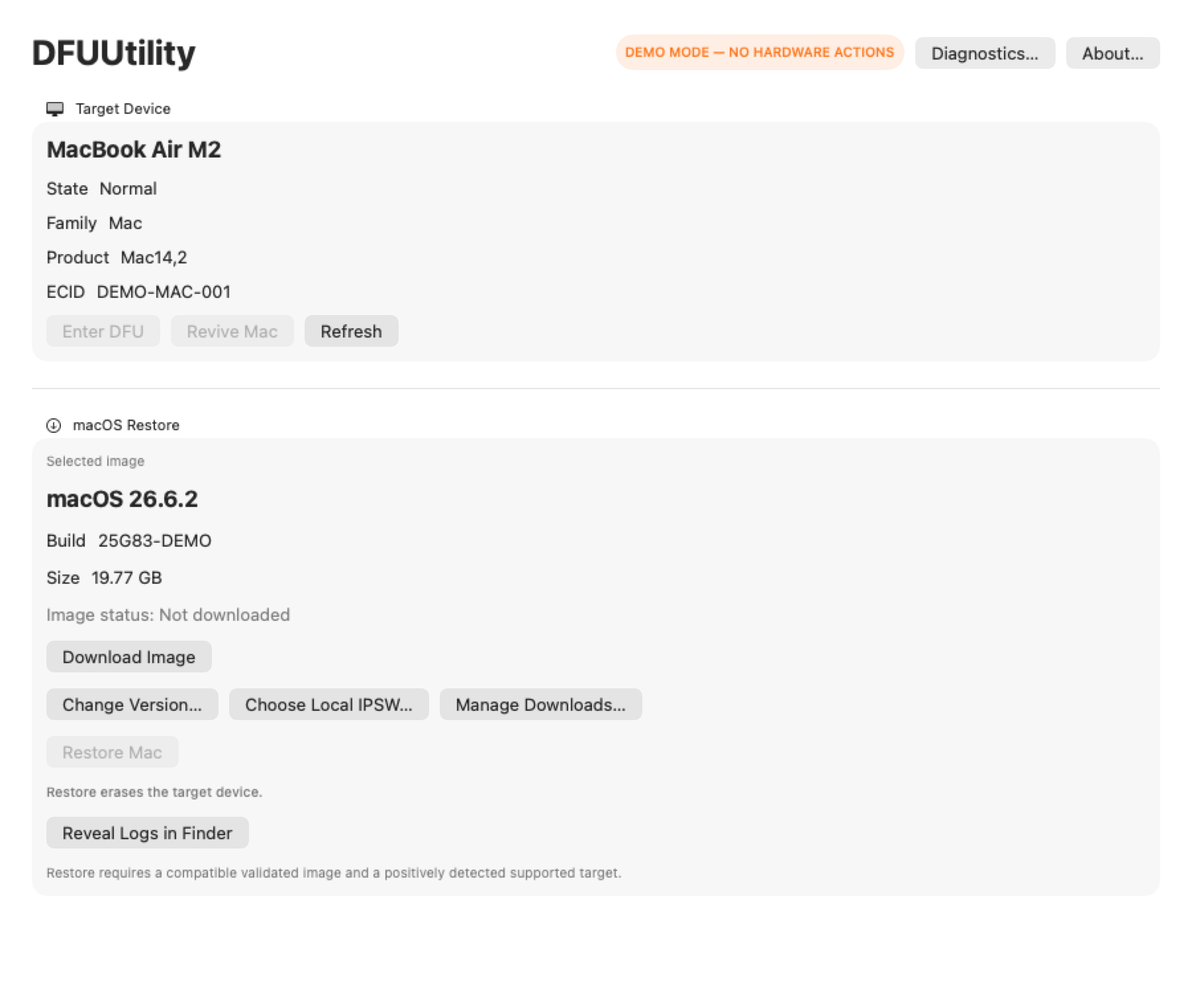
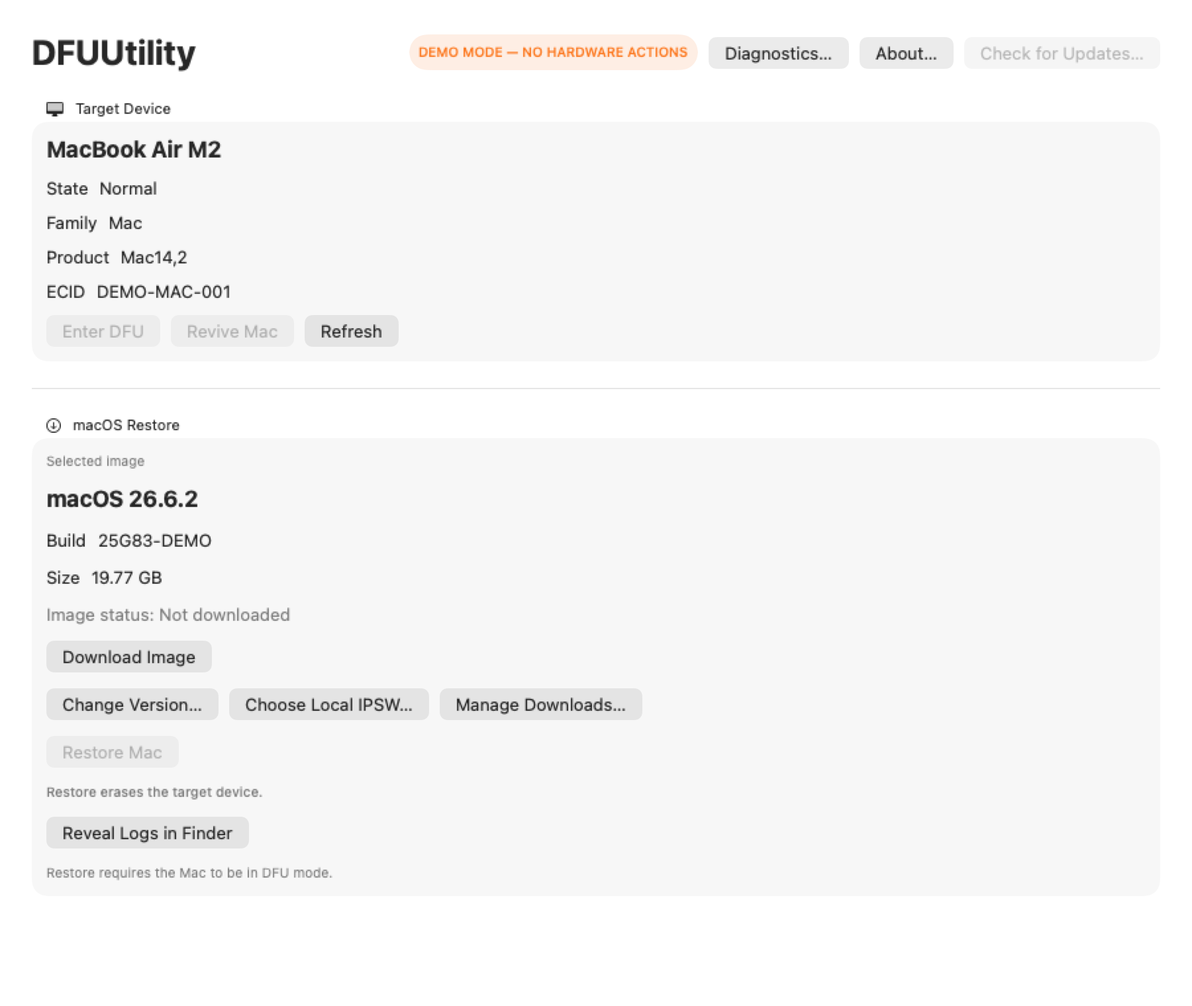
Polish pre-0.7.0 user experience

Changed region(s): [[0.3422, 0.0309, 0.9644, 0.0928], [0.1244, 0.8658, 0.5289, 0.8967]]

diff --git a/Sources/DFUUtilityApp/ContentView.swift b/Sources/DFUUtilityApp/ContentView.swift
@@ -22,19 +22,9 @@ struct ContentView: View {
 
     var body: some View {
         VStack(alignment: .leading, spacing: 20) {
-            HStack {
-                Text("DFUUtility").font(.largeTitle.bold())
-                Spacer()
-                if model.isDemoMode { Text("DEMO MODE — NO HARDWARE ACTIONS").font(.caption.bold()).foregroundStyle(.orange).padding(7).background(.orange.opacity(0.12), in: Capsule()) }
-                if model.isUpdateTestMode { Text("UPDATE TEST — SIMULATION ONLY").font(.caption.bold()).foregroundStyle(.orange).padding(7).background(.orange.opacity(0.12), in: Capsule()) }
-                if case .available = model.updateCoordinator.state {
-                    Button("Update Available") { model.isUpdatePresentationRequested = true }
-                        .buttonStyle(.borderedProminent).controlSize(.small)
-                }
-                Button("Diagnostics…") { showDiagnostics = true }
-                Button("About…") { showAbout = true }
-                Button(checkButtonTitle) { model.requestManualUpdateCheck() }
-                    .disabled(model.isDemoMode || model.isScreenshotPresentation || model.updateCoordinator.state == .checking)
+            ViewThatFits(in: .horizontal) {
+                HStack { headerTitle; Spacer(); headerActions }
+                VStack(alignment: .leading, spacing: 10) { headerTitle; headerActions }
             }
             targetCard
             Divider()
@@ -60,7 +50,7 @@ struct ContentView: View {
         } message: {
             Text("\(model.target?.friendlyName ?? "Target device")\nProduct: \(model.target?.restoreProductType ?? "Unknown")\nECID: \(model.target?.ecid ?? "Unknown")\n\(model.selectedRelease?.platform.displayName ?? "OS") \(model.selectedRelease?.version ?? "selected image") (\(model.selectedRelease?.build ?? "unknown build"))\n\nThis will erase the target device and reinstall its operating system.")
         }
-        .alert("DFUUtility", isPresented: Binding(get: { model.presentedError != nil }, set: { if !$0 { model.presentedError = nil } })) { Button("OK") { model.presentedError = nil } } message: { Text(model.presentedError ?? "") }
+        .alert(model.presentedErrorTitle, isPresented: Binding(get: { model.presentedError != nil }, set: { if !$0 { model.presentedError = nil } })) { Button("OK") { model.presentedError = nil } } message: { Text(model.presentedError ?? "") }
         .alert(updateResultTitle, isPresented: Binding(get: { model.updateCoordinator.pendingResult != nil }, set: { if !$0 { model.updateCoordinator.clearResult() } })) {
             if model.updateCoordinator.pendingResult?.outcome == .failure { Button("View Update Log") { NSWorkspace.shared.open(model.updateCoordinator.logURL) } }
             Button("OK") { model.updateCoordinator.clearResult() }
@@ -72,6 +62,26 @@ struct ContentView: View {
                 else { Text("DFUUtility was updated successfully. Version remains \(result.newVersion ?? result.oldVersion ?? "unchanged").") }
             }
         }
+    }
+
+    private var headerTitle: some View { Text("DFUUtility").font(.largeTitle.bold()) }
+    private var headerActions: some View {
+        ViewThatFits(in: .horizontal) {
+            HStack { headerActionContent }
+            VStack(alignment: .leading, spacing: 6) { headerActionContent }
+        }
+    }
+    @ViewBuilder private var headerActionContent: some View {
+        if model.isDemoMode { Text("DEMO MODE — NO HARDWARE ACTIONS").font(.caption.bold()).foregroundStyle(.orange).padding(7).background(.orange.opacity(0.12), in: Capsule()) }
+        if model.isUpdateTestMode { Text("UPDATE TEST — SIMULATION ONLY").font(.caption.bold()).foregroundStyle(.orange).padding(7).background(.orange.opacity(0.12), in: Capsule()) }
+        if case .available = model.updateCoordinator.state {
+            Button("Update Available") { model.isUpdatePresentationRequested = true }
+                .buttonStyle(.borderedProminent).controlSize(.small)
+        }
+        Button("Diagnostics…") { showDiagnostics = true }
+        Button("About…") { showAbout = true }
+        Button(checkButtonTitle) { model.requestManualUpdateCheck() }
+            .disabled(model.isDemoMode || model.isScreenshotPresentation || model.updateCoordinator.state == .checking)
     }
 
     private var checkButtonTitle: String { model.updateCoordinator.state == .checking ? "Checking…" : "Check for Updates…" }
@@ -175,15 +185,15 @@ struct ContentView: View {
                 if let error = model.catalogueErrorMessage { Label(error, systemImage: "wifi.exclamationmark").font(.caption).foregroundStyle(.orange) }
                 imageStatus
                 downloadControl
-                HStack {
-                    Button("Change Version…") { model.beginChoosingVersion(); showVersions = true }
-                    Button("Choose Local IPSW…") { showImporter = true }
-                    Button("Manage Downloads…") { showCacheManager = true }
+                ViewThatFits(in: .horizontal) {
+                    HStack { firmwareLibraryActions }
+                    VStack(alignment: .leading, spacing: 6) { firmwareLibraryActions }
                 }
                 if model.deviceSessions.sessions.count > 1 { BatchRestoreControls(model: model, sessions: model.deviceSessions, coordinator: model.batchCoordinator) }
                 if !model.isFirmwareLibraryMode {
                     OperationProgressView(presentation: OperationProgressPresentation(state: model.restoreState, macOSVersion: model.selectedRelease?.version, platform: model.targetRestorePlatform), target: model.target)
-                    Button("Restore \(model.target?.family.displayName ?? "Device")", role: .destructive) { confirmRestore = true }.disabled(!model.canRestore)
+                    Button("Restore \(model.target?.family.displayName ?? "Device")", role: .destructive) { confirmRestore = true }
+                        .disabled(!model.canRestore).accessibilityHint("Erases the selected target after a separate confirmation.")
                     Text("Restore erases the target device.").font(.caption.bold()).foregroundStyle(.secondary)
                     if model.canRevive { Text("Revive attempts repair without erasing recoverable user data, but is not a backup or guarantee.").font(.caption).foregroundStyle(.secondary) }
                 }
@@ -227,7 +237,9 @@ struct ContentView: View {
         case .preparing(let value), .downloading(let value):
                 VStack(alignment: .leading, spacing: 6) {
                     Text("Downloading \(value.release.platform.displayName) \(value.release.version)").font(.headline)
-                    if let fraction = value.fraction { ProgressView(value: fraction) } else { ProgressView() }
+                    if let fraction = value.fraction {
+                        ProgressView(value: fraction).accessibilityLabel("Firmware download progress").accessibilityValue("\(Int((fraction * 100).rounded())) percent")
+                    } else { ProgressView().accessibilityLabel("Preparing firmware download") }
                     HStack {
                         Text("\(formatBytes(value.completed)) / \(formatBytes(value.total))").font(.caption.monospacedDigit())
                         Spacer()
@@ -236,7 +248,7 @@ struct ContentView: View {
                     }
                     Button("Cancel", role: .cancel) { model.cancelDownload() }
                 }
-        case .validating: ProgressView("Validating image…")
+        case .validating: ProgressView("Validating image…").accessibilityLabel("Validating firmware")
         case .failed(let message): Label(message, systemImage: "exclamationmark.triangle.fill").foregroundStyle(.red)
         default:
             if model.selectedRelease != nil, model.imageURL == nil { Button(model.imageState.isPartial ? "Resume Download" : "Download Image") { model.beginDownload() } }
@@ -244,6 +256,12 @@ struct ContentView: View {
     }
 
     private func formatBytes(_ value: Int64?) -> String { value.map { ByteCountFormatter.string(fromByteCount: $0, countStyle: .file) } ?? "Unknown" }
+
+    @ViewBuilder private var firmwareLibraryActions: some View {
+        Button("Change Version…") { model.beginChoosingVersion(); showVersions = true }
+        Button("Choose Local IPSW…") { showImporter = true }
+        Button("Manage Downloads…") { showCacheManager = true }
+    }
 }
 
 private extension ImageState { var isPartial: Bool { if case .partial = self { true } else { false } } }
@@ -314,6 +332,8 @@ private struct DeviceSessionListView: View {
                 HStack(spacing: 10) {
                     Toggle("", isOn: Binding(get: { session.isSelected }, set: { model.setSessionSelected(session.id, selected: $0) }))
                         .labelsHidden().toggleStyle(.checkbox).disabled(!session.hasSafeBatchIdentity)
+                        .accessibilityLabel("Select \(session.device.friendlyName ?? session.device.family.displayName) for batch operations")
+                        .accessibilityHint(session.hasSafeBatchIdentity ? "Adds or removes this device from the explicit batch selection." : "Unavailable because this device does not have a stable ECID.")
                     Image(systemName: icon(for: session.device.family)).frame(width: 20)
                     Button { model.selectSessionForDetail(session.id) } label: {
                         VStack(alignment: .leading, spacing: 2) {
@@ -323,14 +343,14 @@ private struct DeviceSessionListView: View {
                         }.frame(maxWidth: .infinity, alignment: .leading)
                     }.buttonStyle(.plain)
                     if case .running(_, let fraction) = session.operationState {
-                        if let fraction { ProgressView(value: fraction).frame(width: 90) } else { ProgressView().controlSize(.small) }
+                        if let fraction { ProgressView(value: fraction).frame(width: 90).accessibilityLabel("\(session.device.friendlyName ?? "Device") operation progress").accessibilityValue("\(Int(fraction * 100)) percent") } else { ProgressView().controlSize(.small).accessibilityLabel("\(session.device.friendlyName ?? "Device") operation in progress") }
                     }
                     if let log = session.operationLogURL { Button("Log") { NSWorkspace.shared.open(log) }.controlSize(.small) }
                 }
                 .padding(8).background(model.selectedTargetECID?.caseInsensitiveCompare(session.ecid ?? "") == .orderedSame ? Color.accentColor.opacity(0.1) : Color.secondary.opacity(0.05), in: RoundedRectangle(cornerRadius: 8))
             }
             HStack {
-                Button("Select All Ready") { model.selectAllRestoreEligibleSessions() }
+                Button("Select All Restore-Ready") { model.selectAllRestoreEligibleSessions() }
                 Button("Clear Selection") { model.clearSessionSelection() }
                 Spacer()
                 Text("\(sessions.selectedSessions.count) selected").font(.caption).foregroundStyle(.secondary)
@@ -360,25 +380,21 @@ private struct BatchRestoreControls: View {
         VStack(alignment: .leading, spacing: 8) {
             Divider()
             Text("Sequential Batch").font(.headline)
-            HStack(spacing: 8) {
-                Button("Use Latest Compatible Firmware") { Task { await model.useLatestCompatibleFirmwareForSelectedSessions() } }
-                Button("Use Current Firmware for Selected") { model.applyCurrentFirmwareToSelectedSessions() }
+            Text("The selected device set and firmware assignments are frozen when a batch starts. Operations run sequentially and each device is explicitly targeted.").font(.caption).foregroundStyle(.secondary)
+            ViewThatFits(in: .horizontal) {
+                HStack(spacing: 8) { firmwareButtons }
+                VStack(alignment: .leading, spacing: 8) { firmwareButtons }
             }
-            .fixedSize(horizontal: true, vertical: false)
-            HStack(spacing: 8) {
-                Button("Restore \(sessions.selectedSessions.count) Devices", role: .destructive) { confirming = true }
-                    .disabled(!coordinator.canStartRestore || model.isDemoMode)
-                Button("Revive Selected") { model.startBatch(.revive) }.disabled(!coordinator.canStart(.revive) || model.isDemoMode)
-                Button("Restart Selected") { model.startBatch(.restart) }.disabled(!coordinator.canStart(.restart) || model.isDemoMode)
-                if coordinator.isRunning { Button("Stop After Current Device") { model.stopBatchAfterCurrentTarget() } }
+            ViewThatFits(in: .horizontal) {
+                HStack(spacing: 8) { operationButtons }
+                VStack(alignment: .leading, spacing: 8) { operationButtons }
             }
-            .fixedSize(horizontal: true, vertical: false)
             if !coordinator.selectedEligibilityFailures(for: .restore).isEmpty {
                 Text("Every selected device must be ready. \(coordinator.selectedEligibilityFailures(for: .restore).count) selected device(s) are blocked for Restore.").font(.caption).foregroundStyle(.orange)
             }
             if coordinator.isRunning, let index = coordinator.currentIndex {
                 Text("Device \(index + 1) of \(coordinator.frozenTargetIDs.count)")
-                ProgressView(value: coordinator.overallFraction)
+                ProgressView(value: coordinator.overallFraction).accessibilityLabel("Sequential batch progress").accessibilityValue("Device \(index + 1) of \(coordinator.frozenTargetIDs.count)")
                 Text("Overall indicator combines completed-device count with current stage-local progress; it is not byte-linear.").font(.caption).foregroundStyle(.secondary)
             }
             if let summary = coordinator.summary {
@@ -400,8 +416,20 @@ private struct BatchRestoreControls: View {
                         }
                     }
                 }
-                HStack { Spacer(); Button("Cancel") { confirming = false }; Button("Restore Sequentially", role: .destructive) { confirming = false; model.startBatchRestore() }.keyboardShortcut(.defaultAction) }
+                HStack { Spacer(); Button("Cancel") { confirming = false }.keyboardShortcut(.cancelAction); Button("Restore Sequentially", role: .destructive) { confirming = false; model.startBatchRestore() }.keyboardShortcut(.defaultAction).accessibilityHint("Erases the selected devices one at a time in the displayed batch.") }
             }.padding().frame(minWidth: 560, minHeight: 380)
         }
+    }
+
+    @ViewBuilder private var firmwareButtons: some View {
+        Button("Use Latest Compatible Firmware") { Task { await model.useLatestCompatibleFirmwareForSelectedSessions() } }
+        Button("Use Current Firmware for Selected") { model.applyCurrentFirmwareToSelectedSessions() }
+    }
+    @ViewBuilder private var operationButtons: some View {
+        Button("Restore \(sessions.selectedSessions.count) Devices", role: .destructive) { confirming = true }
+            .disabled(!coordinator.canStartRestore || model.isDemoMode).accessibilityHint("Opens confirmation for a sequential destructive Restore batch.")
+        Button("Revive Selected") { model.startBatch(.revive) }.disabled(!coordinator.canStart(.revive) || model.isDemoMode)
+        Button("Restart Selected") { model.startBatch(.restart) }.disabled(!coordinator.canStart(.restart) || model.isDemoMode)
+        if coordinator.isRunning { Button("Stop After Current Device") { model.stopBatchAfterCurrentTarget() }.accessibilityHint("Allows the active device to finish and cancels queued devices.") }
     }
 }

diff --git a/Sources/DFUAppSupport/AppModel.swift b/Sources/DFUAppSupport/AppModel.swift
@@ -359,10 +359,31 @@ public final class AppModel: ObservableObject {
         return RestoreTargetStatePolicy.allowsRestore(target) && imageURL != nil && selectedImageMatchesTarget && !operationInProgress
     }
     public var restoreUnavailableMessage: String {
-        if let target, (target.family == .iPhone || target.family == .iPad), !RestoreTargetStatePolicy.allowsRestore(target) {
+        guard let target else { return "Select a connected target device before restoring." }
+        if (target.family == .iPhone || target.family == .iPad), !RestoreTargetStatePolicy.allowsRestore(target) {
             return "Restore requires the \(target.family.displayName) to be in Recovery or DFU mode."
         }
-        return "Restore requires a compatible validated image and a positively detected supported target."
+        if !RestoreTargetStatePolicy.allowsRestore(target) { return "Restore requires the Mac to be in DFU mode." }
+        if operationInProgress { return "Wait for the current device operation to finish before restoring." }
+        switch imageState {
+        case .validating: return "Wait for firmware validation to finish before restoring."
+        case .partial: return "Resume and complete the firmware download before restoring."
+        case .invalid(let reason): return "The selected firmware is invalid. \(reason)"
+        case .none where selectedRelease == nil && manualImageURL == nil: return "Select firmware before restoring."
+        case .none: return "Download and validate the selected firmware before restoring."
+        case .ready where !selectedImageMatchesTarget: return "The selected firmware is not compatible with \(target.restoreProductType ?? "this target")."
+        case .ready: return "Restore is unavailable for the selected target and firmware."
+        }
+    }
+    public var presentedErrorTitle: String {
+        guard let message = presentedError else { return "DFUUtility" }
+        if message.hasPrefix("Restore failed") { return "Restore Failed" }
+        if message.hasPrefix("Revive failed") { return "Revive Failed" }
+        if message.hasPrefix("Image download failed") { return "Download Failed" }
+        if message.hasPrefix("Unable to load Apple restore images") || message.hasPrefix("The selected IPSW") { return "Firmware Unavailable" }
+        if message.localizedCaseInsensitiveContains("update") { return "Update Failed" }
+        if message.localizedCaseInsensitiveContains("entering DFU") || message.hasPrefix("DFU helper") || message.localizedCaseInsensitiveContains("DFU is unavailable") { return "DFU Entry Failed" }
+        return "DFUUtility"
     }
     public var canRevive: Bool {
         guard !isDemoMode, !isUpdateTestMode, let target, !operationInProgress else { return false }

diff --git a/Sources/DFUUtilityApp/DiagnosticsView.swift b/Sources/DFUUtilityApp/DiagnosticsView.swift
@@ -3,6 +3,9 @@ import DFUCore
 import SwiftUI
 
 struct DiagnosticsView: View {
+    @Environment(\.dismiss) private var dismiss
+    @State private var confirmation: String?
+    @State private var saveError: String?
     let report: DoctorReport?
     let shareableText: String
     var privilegeMode: PrivilegeMode = PrivilegeModeSelector.select()
@@ -15,17 +18,34 @@ struct DiagnosticsView: View {
             Text("Diagnostics").font(.title.bold())
             Text("Detailed local diagnostics are shown below. Copy and Save create a sanitized report suitable for sharing.").font(.caption).foregroundStyle(.secondary)
             ScrollView { Text(text).font(.system(.caption, design: .monospaced)).textSelection(.enabled).frame(maxWidth: .infinity, alignment: .leading) }
-            HStack {
-                Button("Copy Sanitized Diagnostics") { NSPasteboard.general.clearContents(); NSPasteboard.general.setString(shareableText, forType: .string) }
-                Button("Save Sanitized Diagnostics…") { save() }
-                Spacer()
+            if let confirmation { Text(confirmation).font(.caption).foregroundStyle(.secondary).accessibilityLabel(confirmation) }
+            ViewThatFits(in: .horizontal) {
+                HStack { actionButtons; Spacer(); doneButton }
+                VStack(alignment: .leading, spacing: 8) { actionButtons; doneButton }
             }
         }
+        .alert("Unable to Save Diagnostics", isPresented: Binding(get: { saveError != nil }, set: { if !$0 { saveError = nil } })) {
+            Button("OK") { saveError = nil }
+        } message: { Text(saveError ?? "The sanitized diagnostics could not be saved.") }
     }
+
+    @ViewBuilder private var actionButtons: some View {
+        Button("Copy Sanitized Diagnostics") {
+            NSPasteboard.general.clearContents(); NSPasteboard.general.setString(shareableText, forType: .string)
+            confirmation = "Sanitized diagnostics copied."
+        }
+        Button("Save Sanitized Diagnostics…") { save() }
+    }
+    private var doneButton: some View { Button("Done") { dismiss() }.keyboardShortcut(.defaultAction) }
 
     private func save() {
         let panel = NSSavePanel(); panel.nameFieldStringValue = "DFUUtility-Diagnostics.txt"; panel.allowedContentTypes = [.plainText]
         guard panel.runModal() == .OK, let url = panel.url else { return }
-        try? shareableText.write(to: url, atomically: true, encoding: .utf8)
+        do {
+            try shareableText.write(to: url, atomically: true, encoding: .utf8)
+            confirmation = "Sanitized diagnostics saved."
+        } catch {
+            saveError = "The sanitized diagnostics could not be saved. \(error.localizedDescription)"
+        }
     }
 }

diff --git a/Tests/DFUAppSupportTests/AppModelTests.swift b/Tests/DFUAppSupportTests/AppModelTests.swift
@@ -567,8 +567,20 @@ private let noOpLogger = AppMockLogger()
     let app = model(); await app.validateManualIPSW(testURL); #expect(!app.canRestore)
 }
 
-@Test @MainActor func restoreDisabledWithoutValidImage() {
-    let app = model(devices: [DFUDevice(state: .dfu)]); #expect(!app.canRestore)
+@Test @MainActor func restoreDisabledWithoutValidImage() async {
+    let app = model(service: AppMockService(releases: []), devices: [DFUDevice(state: .dfu)]); await app.refreshDiagnosticsAndTarget()
+    #expect(!app.canRestore); #expect(app.restoreUnavailableMessage == "Select firmware before restoring.")
+}
+
+@Test @MainActor func contextualErrorTitlesPreserveKnownOperationContext() {
+    let app = model()
+    app.presentedError = "Restore failed.\nfixture"; #expect(app.presentedErrorTitle == "Restore Failed")
+    app.presentedError = "Revive failed.\nfixture"; #expect(app.presentedErrorTitle == "Revive Failed")
+    app.presentedError = "Administrator authorization was cancelled while entering DFU."; #expect(app.presentedErrorTitle == "DFU Entry Failed")
+    app.presentedError = "Image download failed.\nfixture"; #expect(app.presentedErrorTitle == "Download Failed")
+    app.presentedError = "Unable to load Apple restore images."; #expect(app.presentedErrorTitle == "Firmware Unavailable")
+    app.presentedError = "DFUUtility is preparing to update."; #expect(app.presentedErrorTitle == "Update Failed")
+    app.presentedError = "fixture"; #expect(app.presentedErrorTitle == "DFUUtility")
 }
 
 @Test @MainActor func restoreEnabledOnlyForRealDFUAndImage() async {

diff --git a/Sources/DFUUtilityApp/OperationProgressView.swift b/Sources/DFUUtilityApp/OperationProgressView.swift
@@ -17,10 +17,13 @@ struct OperationProgressView: View {
                 if let fraction = presentation.fraction {
                     HStack(alignment: .firstTextBaseline) {
                         ProgressView(value: fraction).frame(maxWidth: .infinity)
+                            .accessibilityLabel(presentation.stage ?? "Operation progress")
+                            .accessibilityValue("\(Int((fraction * 100).rounded())) percent")
                         Text("\(Int((fraction * 100).rounded()))%").font(.caption.monospacedDigit()).frame(minWidth: 36, alignment: .trailing)
                     }
                 } else {
                     ProgressView().controlSize(.small)
+                        .accessibilityLabel(presentation.stage ?? "Operation in progress")
                 }
                 Text(TargetPresentation.disconnectWarning(for: target)).font(.caption).foregroundStyle(.secondary)
             }
@@ -28,6 +31,7 @@ struct OperationProgressView: View {
             VStack(alignment: .leading, spacing: 7) {
                 if let title = presentation.title { Text(title).font(.headline) }
                 ProgressView(presentation.stage ?? TargetPresentation.restartWaitingText(for: target))
+                    .accessibilityLabel(presentation.stage ?? TargetPresentation.restartWaitingText(for: target))
             }
         case .completed:
             Label(presentation.message ?? "Operation completed successfully.", systemImage: "checkmark.circle.fill").foregroundStyle(.green)

diff --git a/Sources/DFUUtilityApp/UpdateView.swift b/Sources/DFUUtilityApp/UpdateView.swift
@@ -11,7 +11,7 @@ struct UpdateView: View {
             content
             HStack {
                 Spacer()
-                Button("Later") { model.isUpdatePresentationRequested = false }
+                Button("Later") { model.isUpdatePresentationRequested = false }.keyboardShortcut(.cancelAction)
                 if case .available = model.updateCoordinator.state {
                     Button("Update Now") {
                         _ = model.prepareUpdate()
@@ -21,7 +21,7 @@ struct UpdateView: View {
                 }
             }
         }
-        .padding(24).frame(width: 460)
+        .padding(24).frame(minWidth: 360, idealWidth: 460, maxWidth: 560)
     }
 
     private var title: String {
@@ -37,7 +37,7 @@ struct UpdateView: View {
 
     @ViewBuilder private var content: some View {
         switch model.updateCoordinator.state {
-        case .checking, .preparing: ProgressView()
+        case .checking, .preparing: ProgressView().accessibilityLabel(title)
         case .current: Text("DFUUtility is up to date.")
         case .available(let update):
             Text(update.versionChanged ? "A newer version of DFUUtility is available." : "A newer DFUUtility source revision is available.")

diff --git a/Sources/DFUUtilityApp/AboutView.swift b/Sources/DFUUtilityApp/AboutView.swift
@@ -2,6 +2,7 @@ import DFUCore
 import SwiftUI
 
 struct AboutView: View {
+    @Environment(\.dismiss) private var dismiss
     var body: some View {
         VStack(alignment: .leading, spacing: 14) {
             Text("DFUUtility").font(.largeTitle.bold())
@@ -14,6 +15,7 @@ struct AboutView: View {
             Link("Upstream project", destination: URL(string: "https://github.com/AsahiLinux/macvdmtool")!)
             ScrollView { Text(licenseText).font(.caption.monospaced()).textSelection(.enabled).frame(maxWidth: .infinity, alignment: .leading) }
             Spacer()
+            HStack { Spacer(); Button("Done") { dismiss() }.keyboardShortcut(.defaultAction) }
         }
     }
     private var licenseText: String {

diff --git a/README.md b/README.md
@@ -39,7 +39,8 @@ Version 0.6.1 is a focused patch release improving post-operation state recovery
 
 - Multiple connected devices are represented as independent sessions keyed by ECID where available, with UDID/serial used only to preserve non-destructive presentation state when ECID is unavailable.
 - A device without ECID, UDID, or serial receives a new ephemeral session on rediscovery so another physical device cannot inherit its firmware or operation state; it remains unavailable for batch execution until an ECID is present.
-- Batch Restore, Revive, and Restart freeze an explicit checkbox selection and run sequentially; every cfgutil command remains targeted to one ECID.
+- Use the checkboxes to build an explicit batch; **Select All Restore-Ready** selects only devices that currently satisfy Restore eligibility. Firmware remains assigned per device.
+- Batch Restore, Revive, and Restart freeze the selected devices and firmware assignments, then run sequentially; every cfgutil command remains targeted to one ECID and destructive operations are never run in parallel.
 - Firmware selection, validation, progress, reconnect verification, results, and logs remain per device. A failure is recorded and the next queued device continues; **Stop After Current Device** prevents new operations from starting without interrupting the active restore.
 - Automatic Mac Enter DFU remains single-target because upstream `macvdmtool dfu` does not provide an unambiguous target selector.
 
@@ -141,6 +142,8 @@ If an older Lightning device repeatedly lands in Recovery with direct USB-C to L
 
 Managed downloads live under `~/Library/Caches/DFUUtility/IPSW/`, separated by platform. **Manage Downloads…** shows total storage, validation state and failure detail, and offers Reveal, Resume, and confirmed Remove actions. Operation logs live under `~/Library/Logs/DFUUtility/` and are available through **View Log**.
 
+**Diagnostics…** shows detailed local information for troubleshooting. **Copy Sanitized Diagnostics** and **Save Sanitized Diagnostics…** create a shareable report that omits full device identifiers, usernames, and local filesystem paths.
+
 ## CLI
 
 ```sh
@@ -182,4 +185,3 @@ DFUUtility is licensed under the [Apache License 2.0](LICENSE).
 ## Third-party software
 
 DFUUtility bundles upstream [Asahi Linux macvdmtool](https://github.com/AsahiLinux/macvdmtool) at commit `b22ae51eb43a0e1daa21d41616ac899f28e7bf8a`. macvdmtool remains Copyright 2021 The Asahi Linux Contributors and Apache-2.0 licensed; DFUUtility does not claim ownership or relicense it. Its upstream source, attribution, [license](Vendor/macvdmtool/LICENSE), and [revision record](Vendor/macvdmtool/UPSTREAM_REVISION) are preserved and included in packaged apps.
-
